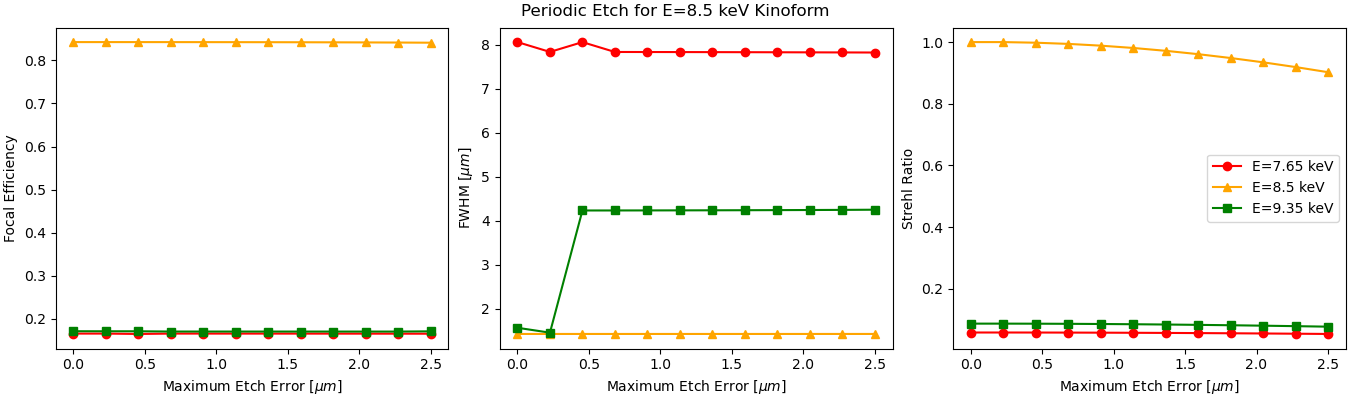
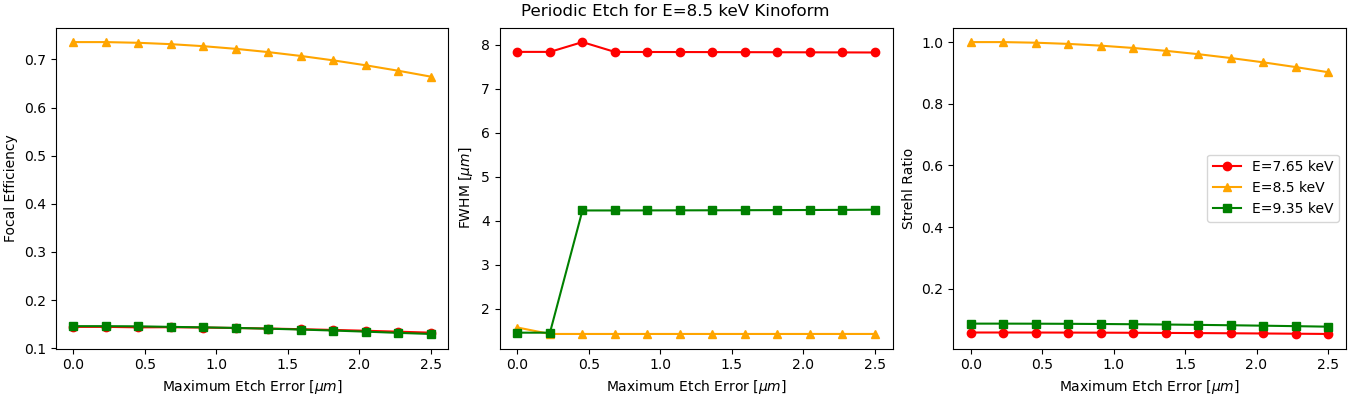
Added phase colormapping to 3d intensity plots

diff --git a/optics/classes/classes.py b/optics/classes/classes.py
@@ -64,6 +64,9 @@ class SimulationObject:
     
     def add_propagator(self, propagator: Propagator):
         self.propagator = propagator
+        
+    def copy(self):
+        return SimulationObject(Lx=self.Lx, Nx=self.Nx, Lz=self.Lz, Ly=self.Ly, Ny=self.Ny, n=self.n)
             
     def view(self):
         pass
@@ -112,7 +115,7 @@ class Object():
              color="Black", labels=None, show_cbar=False, extend=False):
         
         _phase_cmap = "twilight"
-        def _view_data(self, extend):
+        def _view_data(self):
             '''
             Return (data, norm, scale, label, c_label, sm, rgb) for `view`.
             - data: scalar field for plotting (intensity / phase / field).
@@ -131,10 +134,9 @@ class Object():
                 scale = "log"
                 c_label = label
                 phase = self.phase()
-                if extend or self.simulation.dim != 2:
-                    norm = colors.LogNorm(vmin=np.min(phase),
-                                        vmax=np.max(phase)) if data.max() > 0 else colors.Normalize()
-                else:
+                
+                if self.dim != 1:
+                    c_label="Phase"
                     # domain coloring: |field| -> lightness (log), phase -> cyclic cmap
                     vmin = 1e-3*data.max() if data.max() > 0 else 0.0
                     vmax = data.max() if data.max() > 0 else 1.0
@@ -185,7 +187,7 @@ class Object():
         labels = dict(labels or {})
 
         ## decide what scalar data, norm, and colorbar mappable to use per type
-        data, norm, scale, label, c_label, sm, rgb = _view_data(self, extend)
+        data, norm, scale, label, c_label, sm, rgb = _view_data(self)
 
         x_scale_factor = labels.get("x_scale_factor", 1.0)
         y_scale_factor = labels.get("y_scale_factor", 1.0)
@@ -231,15 +233,29 @@ class Object():
                     else (X[0, :] >= xlim[0]) & (X[0, :] <= xlim[1])
                 mask_y = np.ones(Y.shape[0], dtype=bool) if ylim is None \
                     else (Y[:, 0] >= ylim[0]) & (Y[:, 0] <= ylim[1])
-                idx = np.ix_(mask_y, mask_x)
+                # downsample dense grids: per-facet coloring is slow at large N
+                stride = max(1, min(mask_x.sum(), mask_y.sum()) // 256)
+                idx = np.ix_(np.flatnonzero(mask_y)[::stride],
+                             np.flatnonzero(mask_x)[::stride])
                 Xc, Yc, Dc = X[idx], Y[idx], data[idx]
 
-                surf = ax3d.plot_surface(Xc, Yc, Dc, norm=norm, cmap=cmap)
+                if rgb is not None:
+                    # height = intensity; color = phase domain-coloring
+                    surf = ax3d.plot_surface(
+                        Xc, Yc, Dc, facecolors=rgb[idx],
+                        rstride=1, cstride=1, linewidth=0,
+                        antialiased=False, shade=False,
+                    )
+                else:
+                    surf = ax3d.plot_surface(Xc, Yc, Dc, norm=norm, cmap=cmap)
 
                 if show_cbar:
-                    cbar = fig.colorbar(surf, ax=ax3d, orientation="vertical",
+                    mappable = sm if sm is not None else surf
+                    cbar = fig.colorbar(mappable, ax=ax3d, orientation="vertical",
                                         shrink=0.7, pad=0.12)
                     cbar.set_label(c_label)
+                    if rgb is not None:
+                        _add_phase_wheel(ax3d, cmap=_phase_cmap, text_color="Black")
 
                 if xlim is not None: ax3d.set_xlim3d(*xlim)
                 if ylim is not None: ax3d.set_ylim3d(*ylim)
@@ -289,12 +305,13 @@ class Waveform(Object):
         return np.angle(field)
     
     def filter(self, aperture): #type: ignore
-        if isinstance(aperture, Aperture): 
-            self.field *= aperture.field
-        elif isinstance(aperture, ThinLens):
-            self.field *= aperture.aperture_field
-        else:
-            raise Exception()
+        match aperture:
+            case ThinLens(): 
+                self.field *= aperture.aperture_field
+            case Aperture():
+                self.field *= aperture.field
+            case _:
+                raise Exception("Invalid aperture!")
         
 class Aperture(Object):
     def __init__(self, simulation: SimulationObject, z, func=None, **kwargs):

diff --git a/optics/metrics/lens_comparison.py b/optics/metrics/lens_comparison.py
@@ -26,6 +26,7 @@ def run_lens(label: str, lens_cls, simulation: SimulationObject, propagator: Pro
     
     Uses a ConstantBeam reference for fair power-in normalization.
     '''
+        
     if w0 is None:
         source = ConstantBeam(energy=E, simulation=simulation, z=0)
     else:
@@ -42,6 +43,7 @@ def run_lens(label: str, lens_cls, simulation: SimulationObject, propagator: Pro
         print(f"[{label}] WARNING: under-sampled (dx={simulation.Lx/simulation.Nx:.3e} >= f_s={f_s:.3e})")
 
     # snapshot incident wave (after aperture mask but before phase) for power_in
+    source.filter(lens)
     incident_power = total_power(source)
 
     # propagate to focal plane
@@ -51,19 +53,19 @@ def run_lens(label: str, lens_cls, simulation: SimulationObject, propagator: Pro
     return source, lens, incident_power
 
 
-def collect_metrics(focal_wave, incident_power, label):
+def collect_metrics(P_in, focal_wave, lens, label):
     I = focal_wave.intensity()
     fwhm = FWHM(focal_wave)
     I_max, I_avg = intensity_stats(focal_wave)
-    P_focal = total_power(focal_wave)
-    eff = P_focal / incident_power if incident_power > 0 else np.nan
+    P_focal = focal_power(focal_wave, radius=1.22*focal_wave.wavelength*lens.f/(2*lens.R))
+    eff = focal_efficiency(P_in, focal_wave, radius=1.22*focal_wave.wavelength*lens.f/(2*lens.R))
     return {
         "label": label,
         "FWHM [m]": fwhm,
         "I_max": I_max,
         "I_avg": I_avg,
         "P_focal": P_focal,
-        "P_incident": incident_power,
+        "P_incident": P_in,
         "focusing_efficiency": eff,
     }
 
@@ -198,7 +200,7 @@ def test_compare_xray_lenses(lens_dict, N, dim):
             label, cls, sim, propagator, E, f, R, n,
             err_func=err_func
         )
-        m = collect_metrics(source, P_in, name)
+        m = collect_metrics(P_in, source, lens, name)
         metrics.append(m)
         
         plot_labels = {

diff --git a/optics/metrics/error_metrics.py b/optics/metrics/error_metrics.py
@@ -68,7 +68,7 @@ def etch_error_vs_intensity(source_factory, lens_factory, propagator, error_func
             ## create reference source lens for comparison
             lens = lens_factory(source, wavelength=ref_source.wavelength)
             source.filter(lens)
-            source_in = source
+            P_in = total_power(source)
             
             lens.add_error(error_func, **{mag_name: float(e)}, **error_kwargs)
             lens.init_transmittance(source)
@@ -76,7 +76,7 @@ def etch_error_vs_intensity(source_factory, lens_factory, propagator, error_func
             source.propagate(lens.f, propagator)
 
             Imax, _ = intensity_stats(source)
-            P_eff[i] = focal_efficiency(wave_in=source, wave_out=source_in, radius=1.22*source.wavelength*lens.f/(2*lens.R))
+            P_eff[i] = focal_efficiency(P_in=P_in, wave_out=source, radius=1.22*source.wavelength*lens.f/(2*lens.R))
             try:
                 fwhm[i] = FWHM(source)
             except Exception:

diff --git a/optics/metrics/metrics.py b/optics/metrics/metrics.py
@@ -123,16 +123,17 @@ def focal_power(wave: Waveform, radius):
         
     return P_focal
 
-def focal_efficiency(wave_in: Waveform, wave_out: Waveform, radius: float):
+def focal_efficiency(P_in, wave_out: Waveform, radius=None):
     '''
     args
     - wave_in: incident plane waveform
     - wave_out: focal plane waveform
     - radius: radius [m] in which to calculate power over
     '''
-    
-    P_in = total_power(wave_in)
-    P_focal = focal_power(wave_out, radius)
+    if radius is None:
+        P_focal = total_power(wave_out)
+    else:
+        P_focal = focal_power(wave_out, radius)
     
     return P_focal/P_in
 
